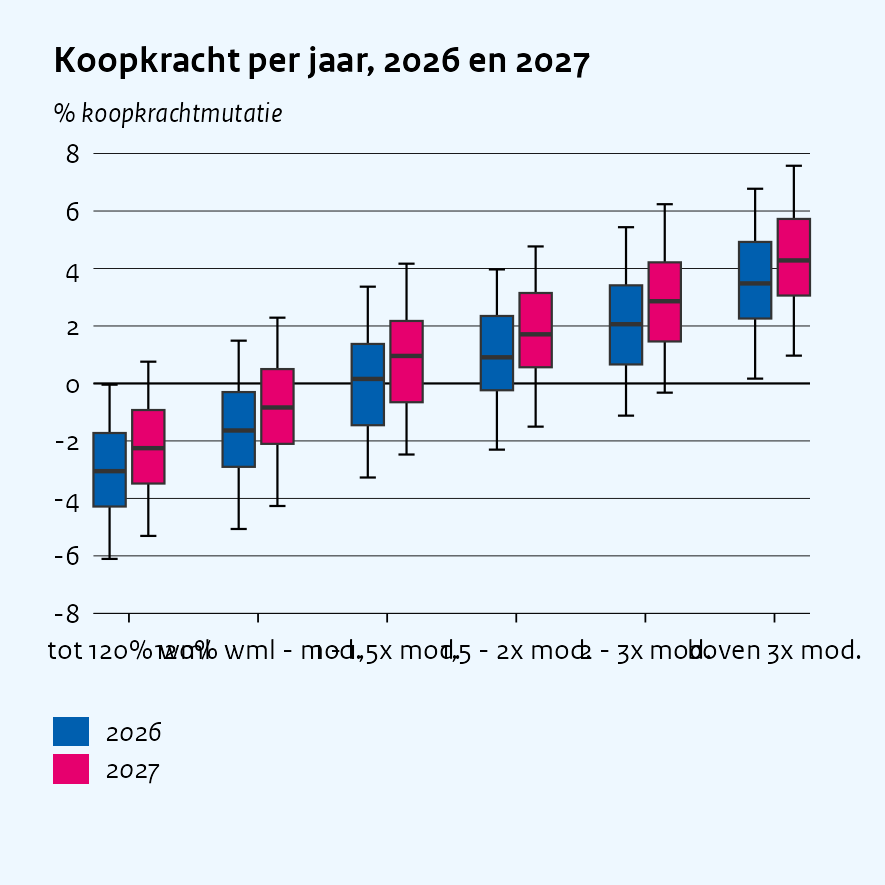
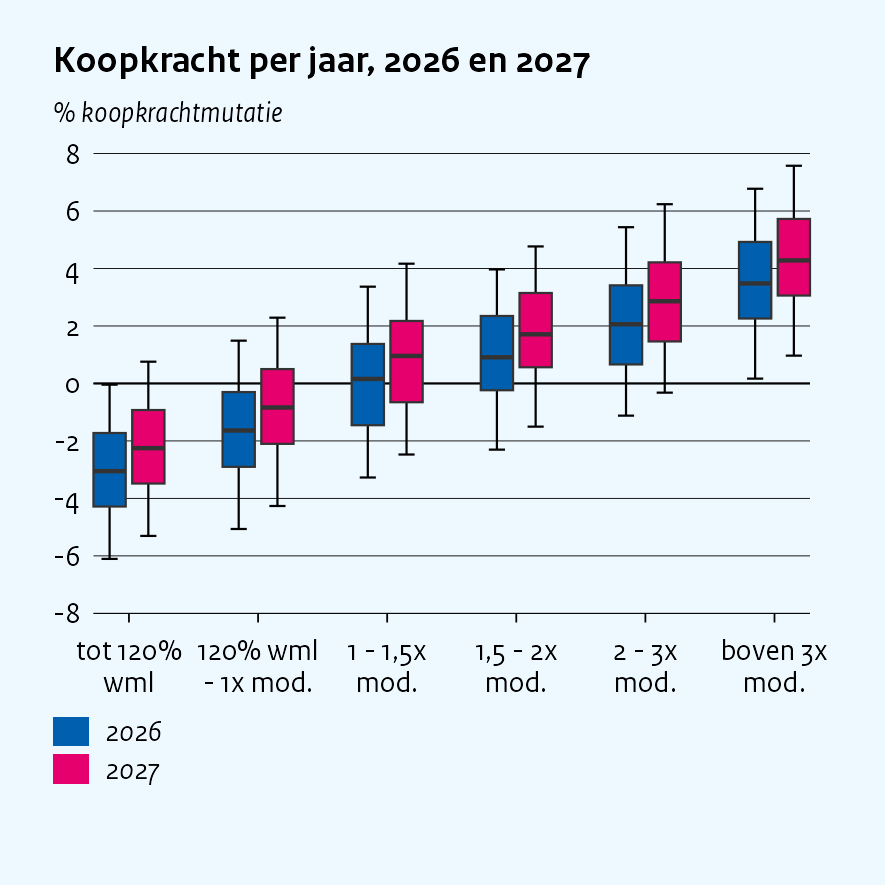
docs: re-render the changed vignette figures
Only the three figures and two pages that changed. The other figures
are not re-rendered.

diff --git a/doc/boxplots.md b/doc/boxplots.md
@@ -136,13 +136,18 @@ grouped boxes – for example one pair of years per income group:
 kk2 <- expand_grid(kk, jaar = factor(c(2026, 2027))) |>
   mutate(across(p5:p95, \(q) q + (jaar == "2027") * 0.8))
 
-cpb_box(kk2, x = groep,
-  p5 = p5, p25 = p25, p50 = p50, p75 = p75, p95 = p95,
-  fill     = jaar,
-  position = position_dodge(width = 0.6),
-  fill_index = c(6, 2),
-  title    = "Koopkracht per jaar, 2026 en 2027",
-  ylab     = "% koopkrachtmutatie")
+kk2 |>
+  mutate(groep = factor(groep, labels = c(
+    "tot 120%\nwml", "120% wml\n- 1x mod.", "1 - 1,5x\nmod.", "1,5 - 2x\nmod.",
+    "2 - 3x\nmod.", "boven 3x\nmod."
+  ))) |>
+  cpb_box(x = groep,
+    p5 = p5, p25 = p25, p50 = p50, p75 = p75, p95 = p95,
+    fill     = jaar,
+    position = position_dodge(width = 0.6),
+    fill_index = c(6, 2),
+    title    = "Koopkracht per jaar, 2026 en 2027",
+    ylab     = "% koopkrachtmutatie")
 ```
 
 <img src="boxplots_files/figure-gfm/box-dodged-1.png" alt="" width="350px" />

diff --git a/doc/import.md b/doc/import.md
@@ -123,10 +123,10 @@ against. So, rather than printing it directly, it is written out through
 
 ``` r
 path <- tempfile(fileext = ".png")
-save_cpb(path, figs$koopkracht, page = "full")
+save_cpb(path, figs$koopkracht, page = "half")
 ```
 
-<img src="import_files/figure-gfm/fig-koopkracht-show-1.png" alt="" width="700px" />
+<img src="import_files/figure-gfm/fig-koopkracht-show-1.png" alt="" width="350px" />
 
 `werkloosheid` has no second axis, so it can be shown directly:
 
